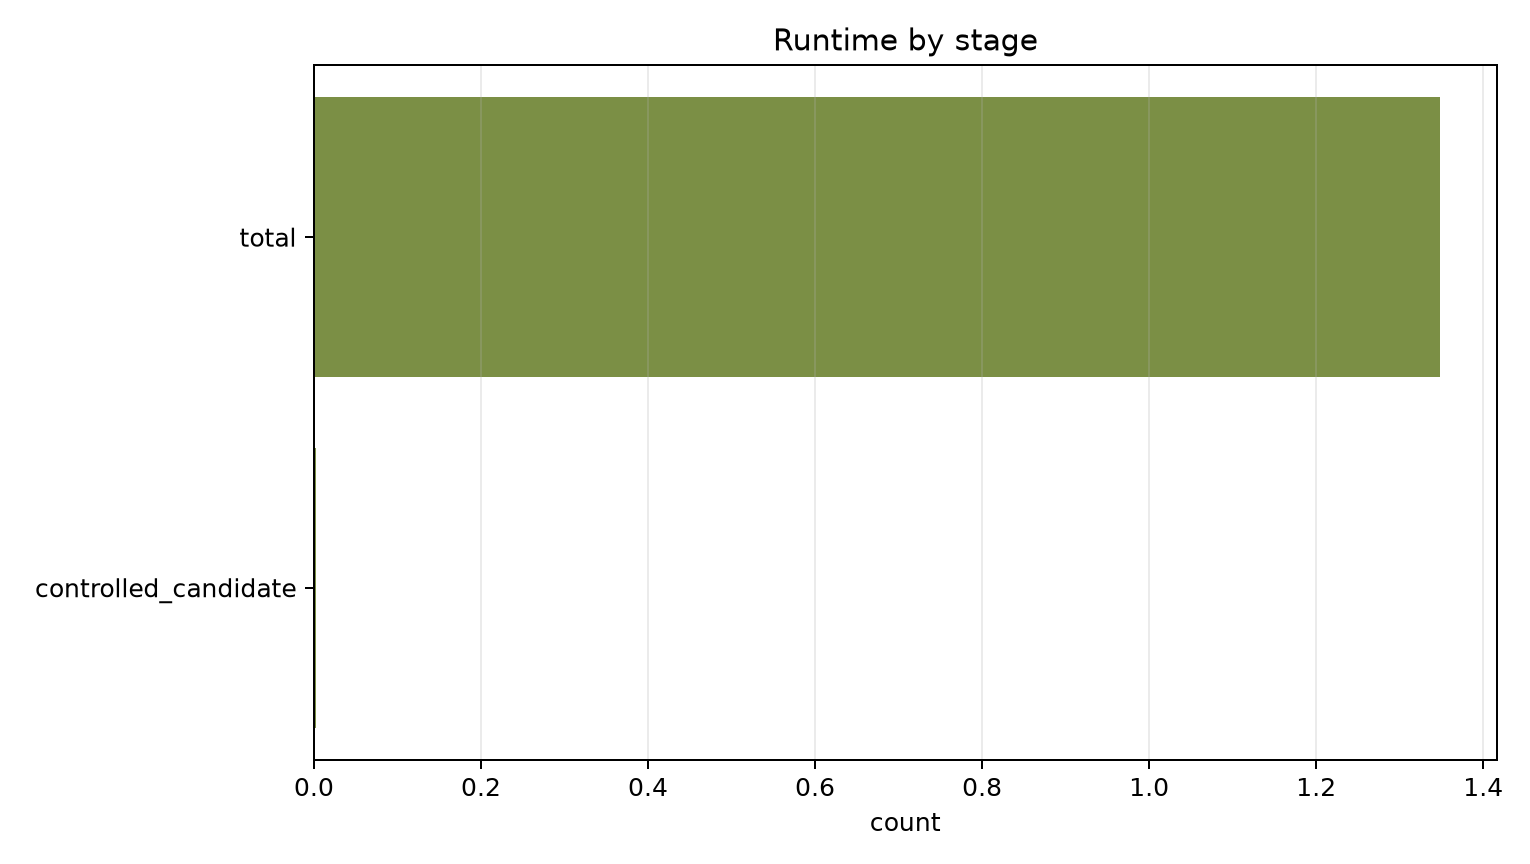
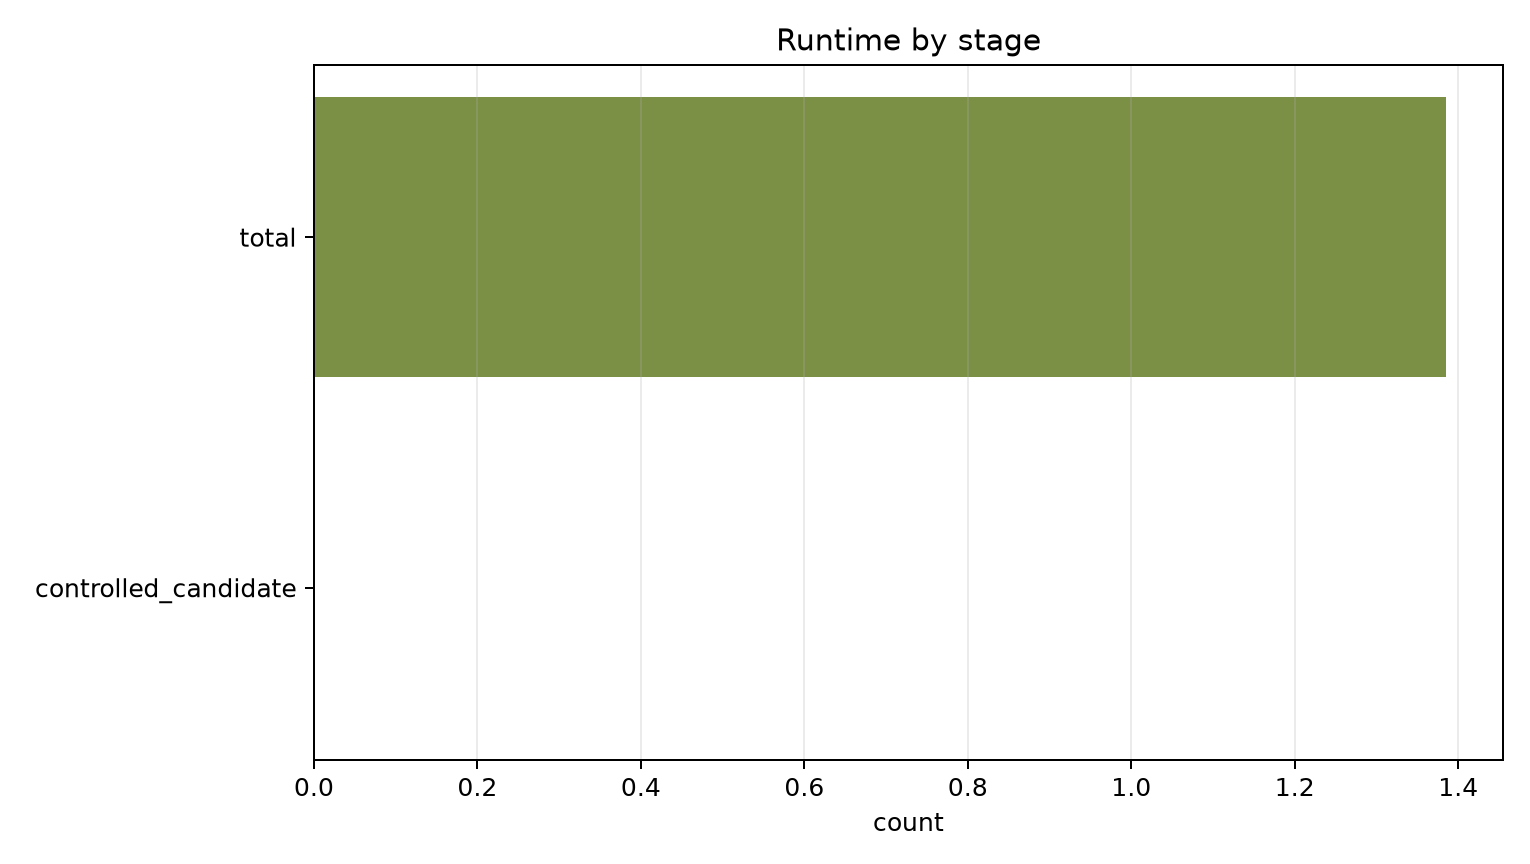
Tighten semantic refactoring non-vacuity accounting

diff --git a/docs/presentation/index.html b/docs/presentation/index.html
@@ -1410,7 +1410,7 @@ ABC global CEC</pre>
 
     <section class="slide">
       <div class="slide-content plot-slide">
-        <div><p class="eyebrow">Search behavior</p><h2>Counterexamples and bounds shape the decomposition search</h2><div class="inline-stats"><span>1 controlled decomposition counterexample</span><span>reproduced 1/1</span><span>11 non-vacuous</span><span>zero real restorations</span></div></div>
+        <div><p class="eyebrow">Search behavior</p><h2>Counterexamples and bounds shape the decomposition search</h2><div class="inline-stats"><span>1 controlled decomposition counterexample</span><span>reproduced 1/1</span><span>11 H-depends-on-M</span><span>10 non-identity accepted</span></div></div>
         <div class="plot-pair">
           <img src="assets/plots/semantic_functional_refactoring_counterexample_repairs.png" alt="Functional refactoring counterexample repairs">
           <img src="assets/plots/semantic_functional_refactoring_budget.png" alt="Functional refactoring budget outcomes">

diff --git a/scripts/run_semantic_functional_refactoring.py b/scripts/run_semantic_functional_refactoring.py
@@ -270,13 +270,24 @@ def _summarise(rows: dict[str, list[dict[str, str]]]) -> None:
 def _write_summary(rows: dict[str, list[dict[str, str]]]) -> None:
     controlled = rows["controlled_experiments.csv"]
     real = rows["development_experiments.csv"]
+    nonvac = {r["candidate_id"]: r for r in rows["non_vacuity_proofs.csv"]}
+    accepted_non_identity = 0
+    for row in controlled:
+        candidate_id = f"{row['benchmark']}__decomp"
+        guard = nonvac.get(candidate_id, {})
+        if (
+            row["non_vacuity_status"] == "non_vacuous_depends_on_m"
+            and guard.get("identity_rejected") != "true"
+        ):
+            accepted_non_identity += 1
     lines = [
         "# Semantic Functional Refactoring Summary",
         "",
         "- Controlled experiments: " + str(len(controlled)),
         "- Controlled decomposable candidates: " + str(sum(r["decomposition_status"] == "decomposable" for r in controlled)),
         "- Exact quotients synthesized/proved: " + str(sum(r["quotient_status"] == "synthesized_truth_table" for r in controlled)),
-        "- Non-vacuous decompositions: " + str(sum(r["non_vacuity_status"] == "non_vacuous_depends_on_m" for r in controlled)),
+        "- Quotients depending on M: " + str(sum(r["non_vacuity_status"] == "non_vacuous_depends_on_m" for r in controlled)),
+        "- Non-identity accepted decompositions: " + str(accepted_non_identity),
         "- Controlled graph-active global-CEC replacements: " + str(sum(r["restored_boundary"] == "true" for r in controlled)),
         "- Real development/held-out attempts: " + str(len(real)),
         "- Real restored boundaries: 0",

diff --git a/docs/research_summary_current_state.md b/docs/research_summary_current_state.md
@@ -105,9 +105,9 @@ Z3 miter, synthesizes an exact quotient, verifies `F(X, Z) = H(G(X), Z)`,
 rejects identity or `H`-ignores-`M` decompositions, and rewrites the graph so
 the semantic divisor is on a real fanout path. The controlled run has 13 cases,
 12 decomposable candidates, 12 independently proved quotients, 11 non-vacuous
-decompositions, 10 graph-active ABC-equivalent refactorings, and 10 restored
-controlled boundaries. The real development/held-out split remains 0/58
-restored.
+quotient-depends-on-`M` decompositions, 10 non-identity graph-active
+ABC-equivalent refactorings, and 10 restored controlled boundaries. The real
+development/held-out split remains 0/58 restored.
 
 Each layer has a different role:
 
@@ -774,10 +774,10 @@ proof generation.
     structural seeds.
 18. Functional semantic refactoring replaces closed-region search with exact
     decomposition `Y = H(G(X), Z)`. It proves 12/13 controlled decomposability
-    candidates, validates 12 exact quotients, rejects 3 controlled negative or
+    candidates, validates 12 exact quotients, rejects controlled negative and
     vacuous cases at the correct stages, restores 10 controlled graph-active
-    boundaries with ABC CEC, and still restores 0 real boundaries across 49
-    development plus 9 held-out attempts.
+    non-identity boundaries with ABC CEC, and still restores 0 real boundaries
+    across 49 development plus 9 held-out attempts.
 
 ## 10. Limitations
 

diff --git a/docs/proof_carrying_semantic_functional_refactoring.md b/docs/proof_carrying_semantic_functional_refactoring.md
@@ -99,7 +99,8 @@ Current committed results under `results/semantic_functional_refactoring/`:
 - controlled decomposable candidates: 12;
 - decomposition counterexamples: 1, reproduced 1/1;
 - exact quotients synthesized and independently proved: 12;
-- non-vacuous decompositions: 11;
+- quotient-depends-on-`M` decompositions: 11;
+- non-identity accepted decompositions: 10;
 - controlled graph-active ABC-equivalent refactorings: 10;
 - controlled restored boundaries: 10;
 - real attempts: 58;

diff --git a/README.md b/README.md
@@ -3097,7 +3097,8 @@ Current committed results under
 - 12 controlled decomposable candidates;
 - 1 decomposition counterexample, concretely reproduced;
 - 12 exact quotients synthesized and independently Z3-proved;
-- 11 non-vacuous decompositions;
+- 11 quotient-depends-on-`M` decompositions;
+- 10 non-identity accepted decompositions;
 - 10 controlled graph-active ABC-equivalent refactorings;
 - 10 controlled semantic boundaries restored;
 - 49 development real attempts, 0 restorations;

diff --git a/results/semantic_functional_refactoring/semantic_functional_refactoring_summary.md b/results/semantic_functional_refactoring/semantic_functional_refactoring_summary.md
@@ -3,7 +3,8 @@
 - Controlled experiments: 13
 - Controlled decomposable candidates: 12
 - Exact quotients synthesized/proved: 12
-- Non-vacuous decompositions: 11
+- Quotients depending on M: 11
+- Non-identity accepted decompositions: 10
 - Controlled graph-active global-CEC replacements: 10
 - Real development/held-out attempts: 58
 - Real restored boundaries: 0
